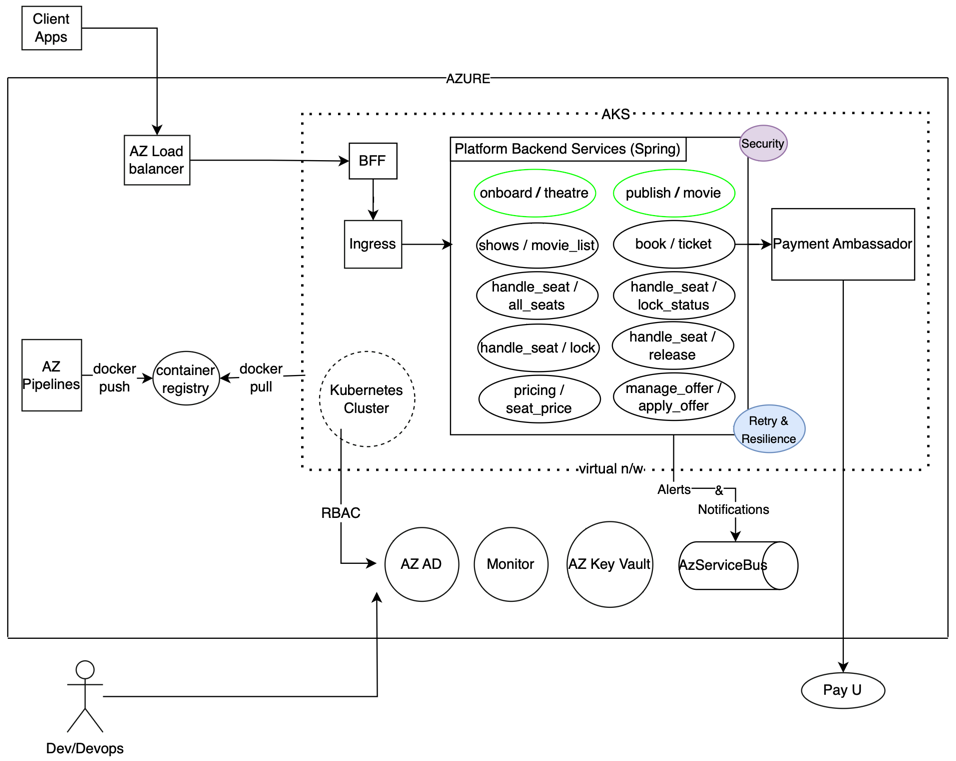
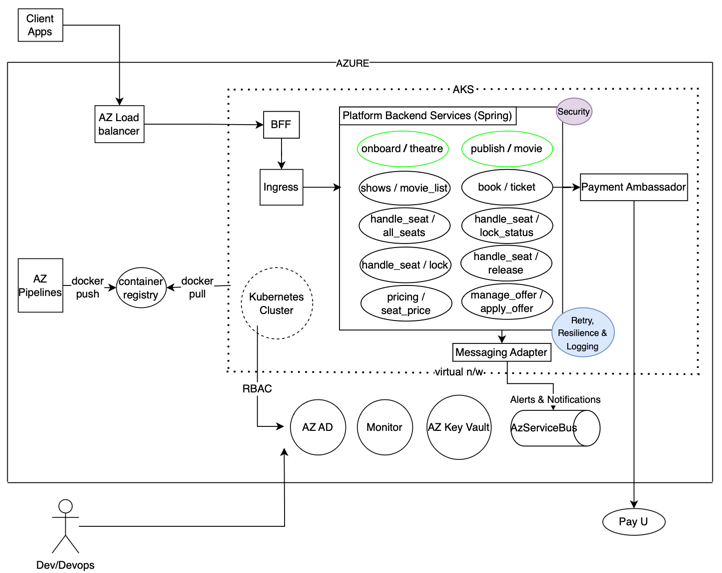
Improving description

diff --git a/README.md b/README.md
@@ -1,27 +1,52 @@
 Functional Flows:
 -----------------
-Onboard Theatre:
+* Onboard Theatre:
 
 ![img_11.png](img_11.png)
 
-Onboard Show:
+* Onboard Show:
 
 ![img_9.png](img_9.png)
 
-Ticket Booking :
+* Ticket Booking:
 
 ![img_10.png](img_10.png)
 
 Data Model
 ----------
-1) Relational:
+* RELATIONAL:
 
 ![img_1.png](img_1.png)  ![img_2.png](img_2.png)  ![img_3.png](img_3.png)
 
-2) No Sql:
+* NO SQL:
 
 ![img_4.png](img_4.png)  ![img_5.png](img_5.png)  ![img_6.png](img_6.png)  ![img_7.png](img_7.png)
-			
+
+**Database Design**
+--------------------------
+--------------------------
+* RDBMS (H2) for THEATRE, BOOKING_DETAILS and SEAT_AVAILABILITY data:
+  * This data to be persisted is expected to be well-structured.
+  * Booking Detail table is expected to have multiple inserts/updates. 
+* NOSQL (Mongo-DB) for SHOWS data:
+  * This data will involve heavy querying and select statements.
+  * This data is also not expected to be updated frequently after it is published.
+  * It can be erased after the show period is completed and withdrawn by the theatre.
+
+**Architectural Overview**
+--------------------------
+--------------------------
+
+Technology Stack
+----------------
+* Architecture: [Microservices [CQRS], Facade, Adapter etc.]
+* Resilience: [Hystrix, Retry etc.]
+* Build and Orchestration: [Docker, K8S, Cloud Pipelines (eg. Azure Pipeline)]
+* Cloud [Azure or AWS]
+* Java 8+, Spring [Boot, REST, Kafka, Data-JPA]
+* Eventing and Messaging: [Kafka Topics]
+* Datastore: Postgres, Schedule Repository [Redis etc.]
+* Monitoring: [ELK etc.]
 
 Logical Architecture
 ---------------------
@@ -29,12 +54,12 @@ Logical Architecture
 
 Reference Architecture
 ----------------------
-1) The following is the basic reference architecture that has been used to come up with the System Architecture of the given problem statement.
+* The following is the basic reference architecture that has been used to come up with the System Architecture of the given problem statement.
 <img width="973" height="442" alt="image" src="https://github.com/user-attachments/assets/6364f21c-f198-488b-b85e-2dbb319a4e42" />
 -Reference: https://learn.microsoft.com/en-us/azure/architecture/microservices/design/patterns
 
 
-2) The following is the generic reference architecture that will be used to design the internal
+* The following is the generic reference architecture that will be used to design the internal
 components wherever applicable
 <img width="562" height="283" alt="image" src="https://github.com/user-attachments/assets/917dbad6-2c9d-42b8-8083-1816ef6ab9b0" />
 
@@ -53,5 +78,36 @@ App Server Down:
 
 DB Server Down:
 ![img_14.png](img_14.png)
+
+Key NFR Overview
+----------------
+----------------
+* Scalability: Horizontal Scaling looks to be a feasible solution for scalability. Auto-scaling feature of the
+cloud provider to generate or purge Scheduler instances based on demand.
+* Availability: A highly scalable system is highly available. When a node or instance is down, the requests
+will be automatically routed to the next available instance or node. This facility will be configured with
+Kubernetes and Cloud Provider.
+* Durability and Resilience: Task execution to be tracked and degraded gracefully by appropriate
+monitoring and retrying with appropriate state. Retry to happen with help of Hystrix and there would be a
+fallback after all retry options are exhausted.
+* Bounded wait Time: Monitor the performance of the task execution and notify when any task takes
+longer time to execute. Based on notification further actions including closing the execution etc. will be
+made. The monitoring can be done using tools like App Dynamics or Controller_Advices etc.
+
+High Level Availability Details
+-------------------------------
+* Overall Availability:
+  * Cloud provided K8S services will be responsible routing to the next available instance based
+on configuration
+  * Resilience to be handled by Hystrix and Retry.
+  * Retry for a bounded time
+  * Fallback after retry exhausted
+  * Long-running tasks to be monitored and purged after the cutoﬀ time. This to be retried at any later schedule.
+
+Storage Details
+---------------
+* Storage for CICD build and deploy.
+* Storage for Database, Messaging Infrastructure
+* Storage for Schedule Instance Repository
 
 
